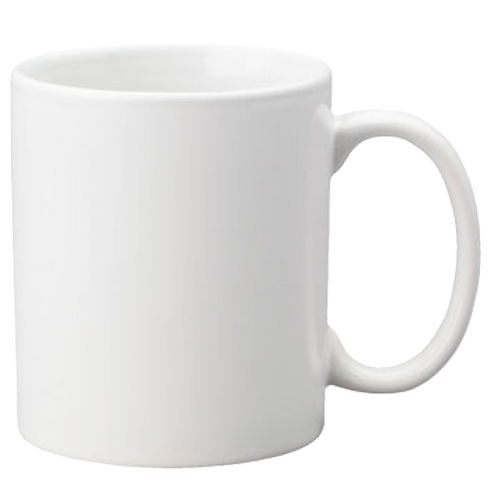
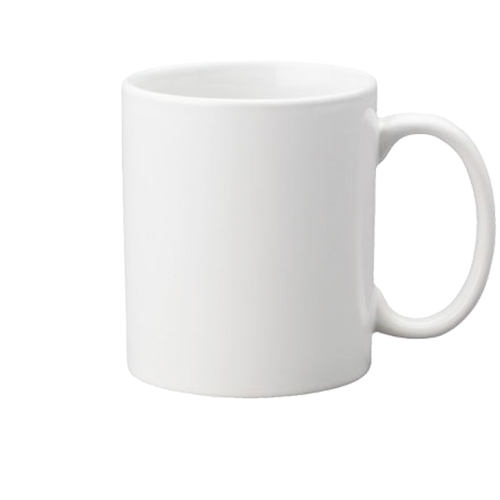
fix: load images

diff --git a/src/views/Merch.vue b/src/views/Merch.vue
@@ -14,6 +14,8 @@
           @click="updImage(index)"
         />
       </div>
+    </div>
+    <div class="merch__generator list-main">
       <div class="merch__merch">
         <img
           ref="merch"
@@ -26,8 +28,6 @@
           @click="updMerch(index)"
         />
       </div>
-    </div>
-    <div class="merch__generator list-main">
       <div class="merch__settings">
         <div class="merch__property">
           <label class="merch__label" for="top">{{ $t('create.top') }}</label>
@@ -93,10 +93,10 @@
               @click="scaleUp"
             ></custom-btn>
             <custom-btn
-              :text="$t('btn.trueSize')"
+              :text="$t('btn.center')"
               imgPath="icon"
               className="btn btn-icon icon-true"
-              @click="scaleTrue"
+              @click="imgCenter"
             ></custom-btn>
             <custom-btn
               :text="$t('btn.scaleDown')"
@@ -161,7 +161,7 @@ export default defineComponent({
     };
   },
 
-  mounted() {
+  async mounted() {
     this.getImages();
     this.loadStore();
 
@@ -174,25 +174,18 @@ export default defineComponent({
     this.canvas = canvas;
     this.ctx = ctx;
 
-    const imageMerch = new Image();
-    imageMerch.onload = () => {
-      // Update CTX
-      this.draw();
-    };
-    imageMerch.src = this.merch[this.indexMerch];
-    this.imgMerch = imageMerch;
+    const imageMerch = this.loadImage(this.merch[this.indexMerch]);
+    const imageMeme = this.loadImage(this.images[this.indexMeme]);
 
-    const image = new Image();
-    image.onload = () => {
-      // Grab position info
-      this.marginLeft = (this.canvas.width - this.imgMeme.naturalWidth * this.scaleSteps) / 2;
-      this.marginTop = (this.canvas.height - this.imgMeme.naturalHeight * this.scaleSteps) / 2;
+    [this.imgMerch, this.imgMeme] = await Promise.all([imageMerch, imageMeme]);
 
-      // Update CTX
-      this.draw();
-    };
-    image.src = this.images[this.indexMeme];
-    this.imgMeme = image;
+    this.canvas.width = this.imgMerch.naturalWidth;
+    this.canvas.height = this.imgMerch.naturalHeight;
+    this.marginLeft = (this.canvas.width - this.imgMeme.naturalWidth * this.scaleSteps) / 2;
+    this.marginTop = (this.canvas.height - this.imgMeme.naturalHeight * this.scaleSteps) / 2;
+
+    // Update CTX
+    this.draw();
   },
 
   beforeRouteLeave() {
@@ -206,17 +199,22 @@ export default defineComponent({
         './img/memes/expert.svg',
         './img/memes/git.svg',
         './img/memes/its_ok.svg',
-        // './img/memes/love.svg',
-        // './img/memes/mentor.svg',
-        // './img/memes/read_chat.svg',
-        // './img/memes/shocked.svg',
-        // './img/memes/so_close.svg',
-        // './img/memes/student_1.svg',
-        // './img/memes/without_mentor.svg',
-        // './img/memes/work_done.svg',
-        // './img/memes/wtf.svg',
+        './img/memes/love.svg',
+        './img/memes/mentor.svg',
+        './img/memes/read_chat.svg',
+        './img/memes/shocked.svg',
+        './img/memes/so_close.svg',
+        './img/memes/student_1.svg',
+        './img/memes/without_mentor.svg',
+        './img/memes/work_done.svg',
+        './img/memes/wtf.svg',
       ];
-      this.merch = ['./img/merch/tshirt.png', './img/merch/hoodie.png', './img/merch/mug.png'];
+      this.merch = [
+        './img/merch/tshirt.png',
+        './img/merch/hoodie.png',
+        './img/merch/mug.png',
+        './img/merch/thermo.png',
+      ];
     },
 
     getImg(i: number): string {
@@ -227,13 +225,24 @@ export default defineComponent({
       return this.merch[i];
     },
 
+    loadImage(url: string): Promise<HTMLImageElement> {
+      return new Promise((resolve) => {
+        const image = new Image();
+        image.addEventListener('load', () => {
+          resolve(image);
+        });
+        image.src = url;
+      });
+    },
+
     scaleUp() {
       this.scaleSteps = Math.min(2, this.scaleSteps + 0.01);
       this.draw();
     },
 
-    scaleTrue() {
-      this.scaleSteps = 1;
+    imgCenter() {
+      this.marginLeft = (this.canvas.width - this.imgMeme.naturalWidth * this.scaleSteps) / 2;
+      this.marginTop = (this.canvas.height - this.imgMeme.naturalHeight * this.scaleSteps) / 2;
       this.draw();
     },
 
@@ -271,8 +280,8 @@ export default defineComponent({
       // set canvas size abd fill background
       this.canvas.width = this.imgMerch.naturalWidth;
       this.canvas.height = this.imgMerch.naturalHeight;
-      this.ctx.fillStyle = 'gray';
-      this.ctx.fillRect(0, 0, this.canvas.width, this.canvas.height);
+      // this.ctx.fillStyle = 'gray';
+      // this.ctx.fillRect(0, 0, this.canvas.width, this.canvas.height);
 
       // use compositing to change the overlay of the original image
       this.ctx.drawImage(tempCanvas, 0, 0);
@@ -348,7 +357,6 @@ export default defineComponent({
     },
 
     drawText() {
-      const { width } = this.canvas;
       const fontSize = Math.floor(this.scaledImageWidth / 5);
       const yOffsetTop = this.marginTop - fontSize * 1.5;
       const yOffsetBottom = this.marginTop + this.scaledImageHeight + fontSize * 1.5;
